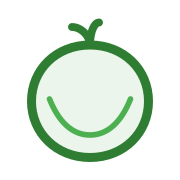
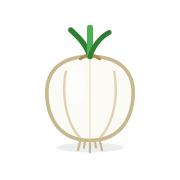
fix: 예전 동그라미 양파 아이콘을 메인 로고 양파로 교체 (파비콘·홈 화면 아이콘·검색 로고·OnionMark)
- build-favicons 원본을 onion-mark.svg → favicon.svg 로, 홈 화면 아이콘은 흰 바탕 + 여백
- OnionMark 컴포넌트도 onion-mascot.svg 로

Claude-Session: https://claude.ai/code/session_0128FfnT6GsJvheDyYW74DBu

Changed region(s): [[0.1389, 0.0833, 0.8611, 0.9167]]

diff --git a/src/components/Atoms.tsx b/src/components/Atoms.tsx
@@ -183,12 +183,9 @@ export const MascotGuide = ({size = 80, variant = "smile", children, side = "rig
 );
 
 // Onion mark — for smaller logo accent
+// 예전 동그라미 양파 아이콘은 쓰지 않는다(사용자 11-18) — 메인 로고와 같은 양파 캐릭터로 통일
 export const OnionMark = ({size = 24}: any) => (
-  <svg width={size} height={size} viewBox="0 0 40 40" fill="none" style={{flexShrink: 0}}>
-    <path d="M20 35c-7.5 0-13-5.5-13-12.5C7 15.5 12.5 10 20 10s13 5.5 13 12.5C33 29.5 27.5 35 20 35Z" fill="#EBF5EC" stroke="#2E7D32" strokeWidth="2"/>
-    <path d="M11 22c2 5 5 8 9 8M29 22c-2 5-5 8-9 8" stroke="#4CAF50" strokeWidth="1.25" strokeLinecap="round" fill="none"/>
-    <path d="M20 10c0-3 1-5 2-5M20 10c0-2-2-4-4-4" stroke="#2E7D32" strokeWidth="1.75" strokeLinecap="round" fill="none"/>
-  </svg>
+  <img src="/assets/onion-mascot.svg" alt="" height={size} style={{flexShrink: 0, display: "block"}}/>
 );
 
 export const Progress = ({value, total, color = "var(--point-600)"}: any) => (
